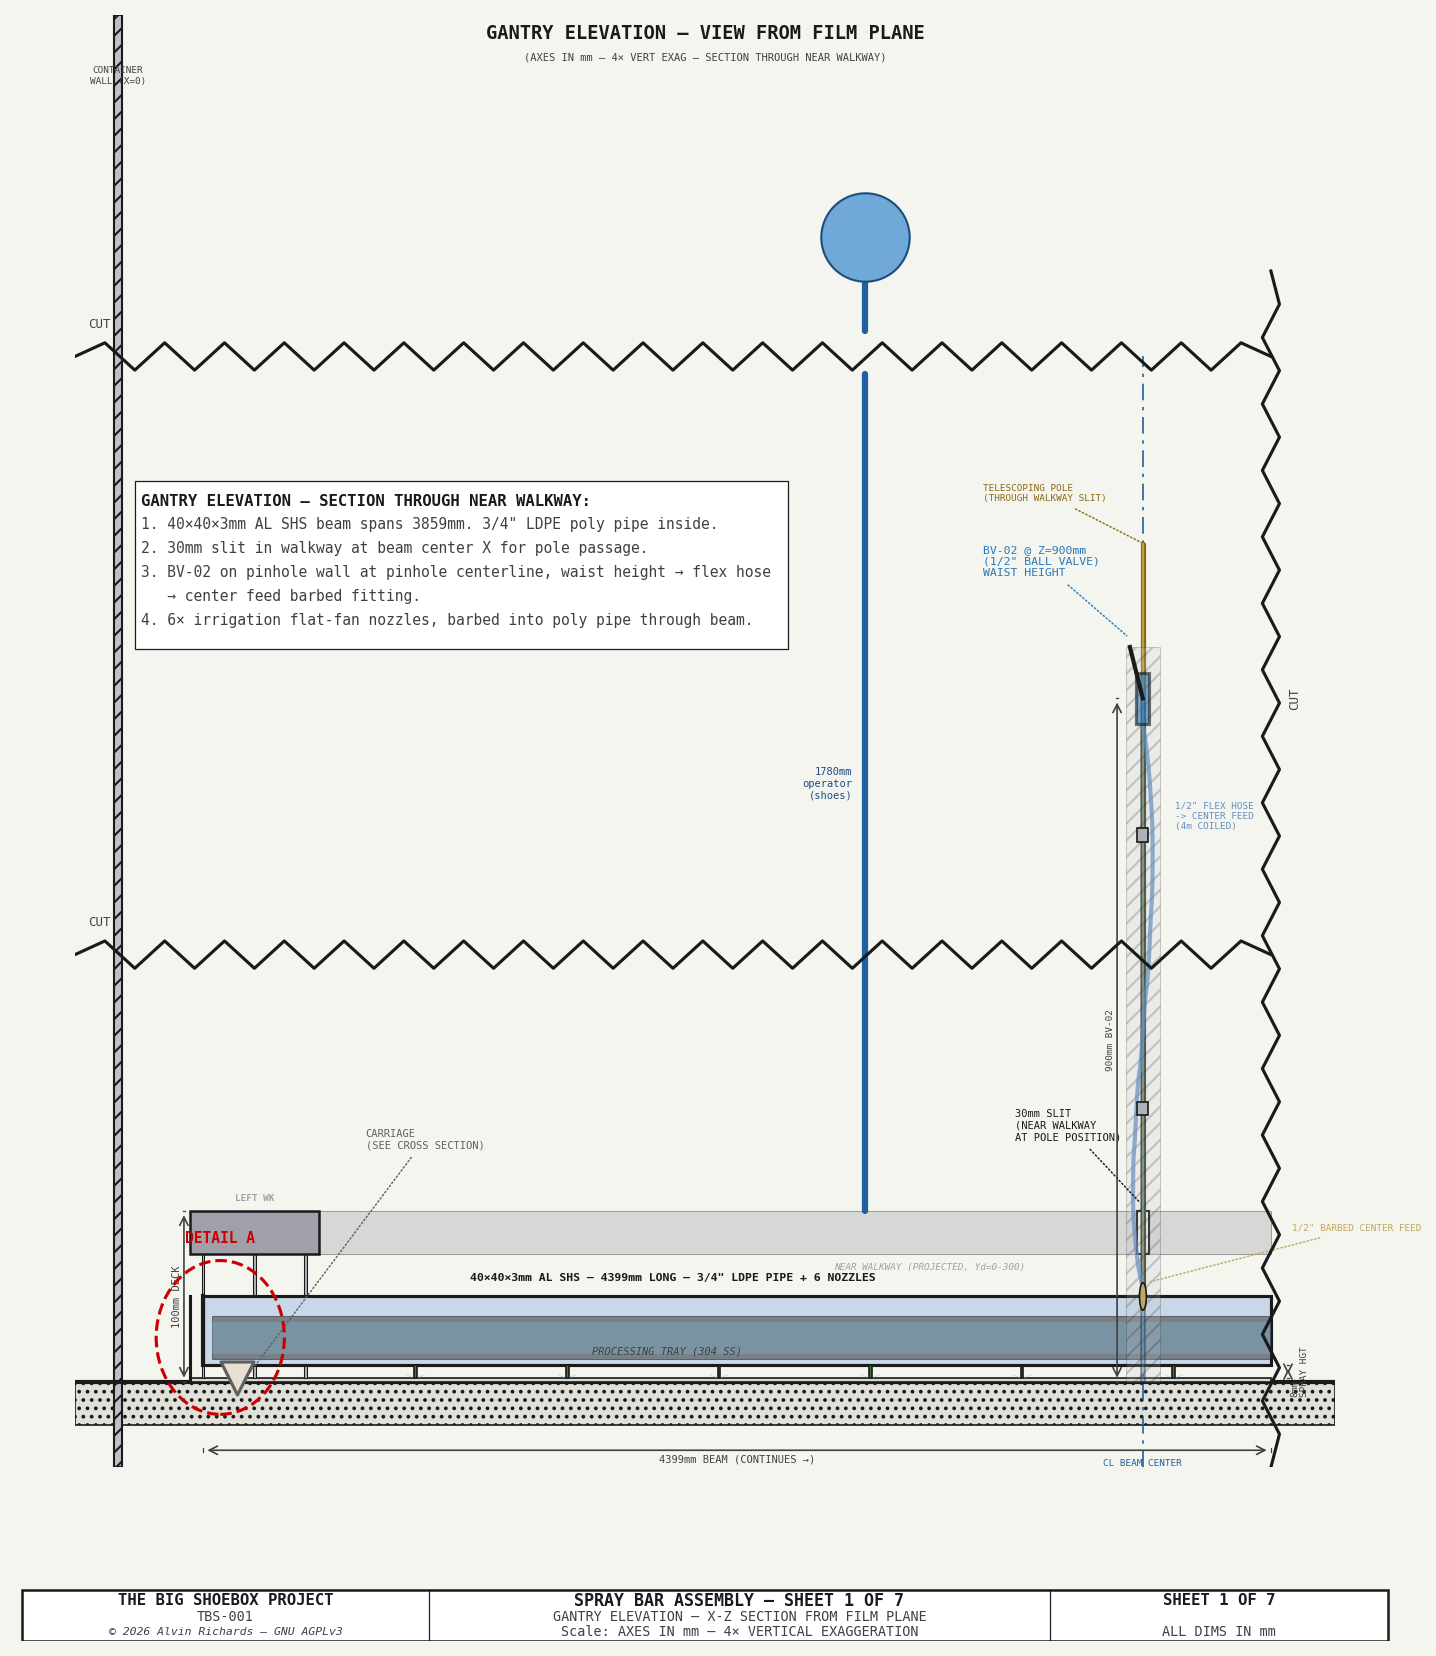
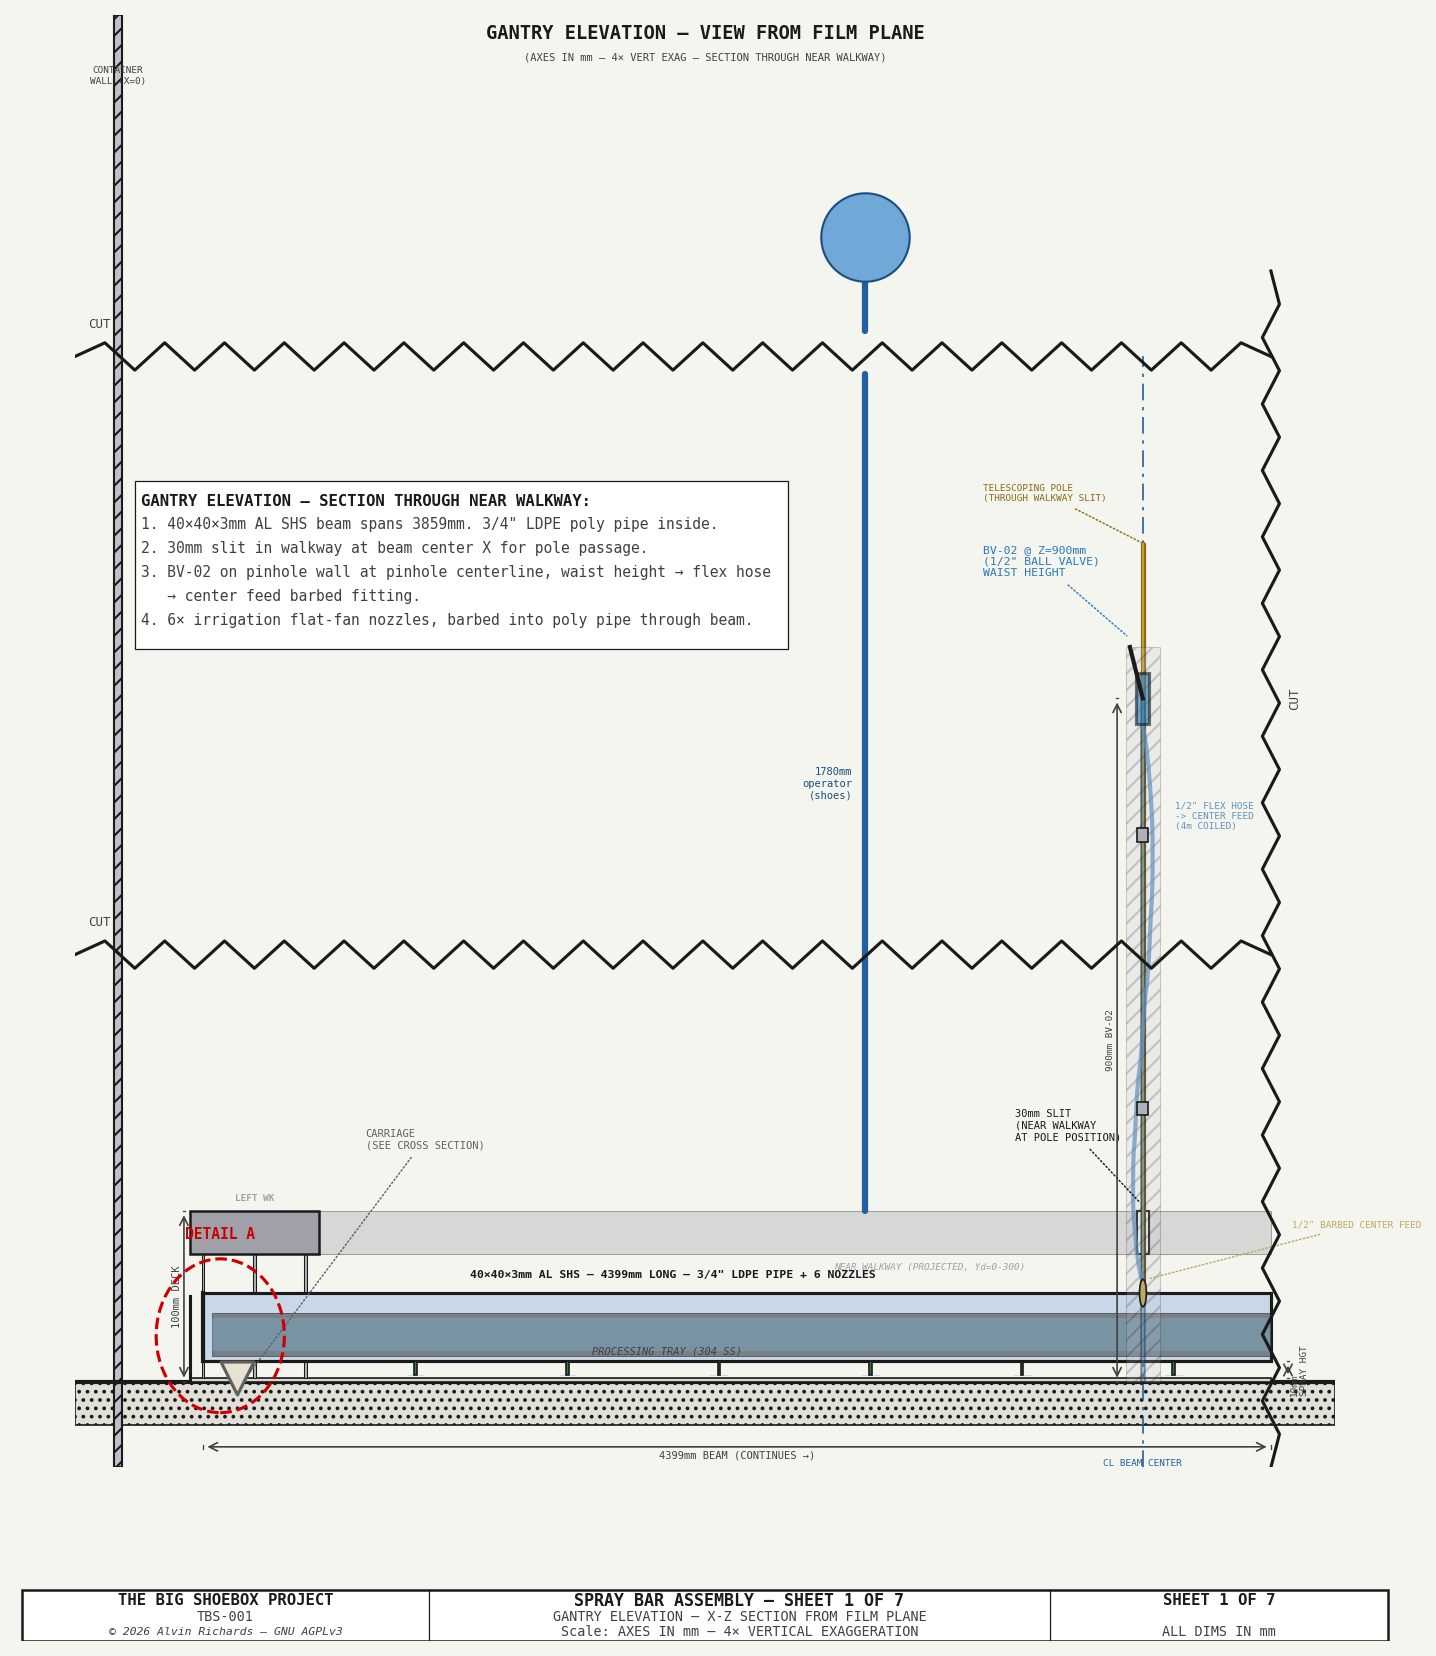
Sheet 2: fix carriage/beam connection — U-clamp under-slung with feet bolted through arm plate from above; arm plate repositioned above wheels; reduce nozzle body to realistic 10×6mm

Changed region(s): [[0.1226, 0.7391, 0.8886, 0.8315], [0.4596, 0.8623, 0.5822, 0.8931]]

diff --git a/generate_spray_bar_diagram.py b/generate_spray_bar_diagram.py
@@ -66,7 +66,7 @@ WHEEL_SPACING_YD = 200
 TRAY_FLOOR_Z = 2
 
 WHEEL_AXLE_Z = TRAY_FLOOR_Z + WHEEL_DIA / 2
-BRACKET_DROP = 17
+BRACKET_DROP = 15
 BEAM_Z_BOT = WHEEL_AXLE_Z - BRACKET_DROP
 BEAM_Z_TOP = BEAM_Z_BOT + SPRAY_BAR_BEAM
 BEAM_W = SPRAY_BAR_BEAM
@@ -79,8 +79,8 @@ POLY_ID = 19.0
 POLY_WALL = (POLY_OD - POLY_ID) / 2
 C_POLY = "#2A2A2A"
 N_NOZZLES = 6
-NOZZLE_BODY_W = 15
-NOZZLE_BODY_H = 12
+NOZZLE_BODY_W = 10
+NOZZLE_BODY_H = 6
 C_NOZZLE = "#3B7A3B"
 
 # U-clamp dimensions
@@ -552,33 +552,35 @@ def draw_sheet2():
            f"Ø{WHEEL_DIA}mm\nNYLON WHEEL",
            fs=5, color=C_WHEEL, font=FONT, zorder=15)
 
-    # ── Fork brackets ────────────────────────────────────────────────────
+    # ── Fork brackets (extend upward from axle to arm plate) ───────────
+    wheel_top_z = TRAY_FLOOR_Z + WHEEL_DIA
+    arm_gap = 3
+    brk_t_c = 5
+    arm_bot_z = wheel_top_z + arm_gap             # 55
+    arm_top_z = arm_bot_z + brk_t_c               # 60
+
     for w_yd in [wheel1_yd, wheel2_yd]:
         for offset in [-WHEEL_WIDTH / 2 - 2, WHEEL_WIDTH / 2 + 2]:
             ax2.plot([w_yd + offset, w_yd + offset],
-                     [WHEEL_AXLE_Z + 6, WHEEL_AXLE_Z - WHEEL_DIA / 2 + 4],
+                     [WHEEL_AXLE_Z, arm_bot_z],
                      color=C_FRAME, lw=1.2, zorder=5.5)
         ax2.plot([w_yd - WHEEL_WIDTH / 2 - 4, w_yd + WHEEL_WIDTH / 2 + 4],
                  [WHEEL_AXLE_Z, WHEEL_AXLE_Z],
                  color=C_FRAME, lw=0.8, zorder=6.5)
 
-    # ── L-bracket arm ────────────────────────────────────────────────────
-    brk_t_c = 5
+    # ── L-bracket arm plate (above wheels) ──────────────────────────────
     plate_yd_l = wheel1_yd - 18
     plate_yd_r = wheel2_yd + 18
 
-    ax2.add_patch(Rectangle((plate_yd_l, WHEEL_AXLE_Z - brk_t_c / 2),
+    ax2.add_patch(Rectangle((plate_yd_l, arm_bot_z),
                   plate_yd_r - plate_yd_l, brk_t_c,
                   fc=C_ALUM_FILL, ec=C_FRAME, lw=1.5, zorder=7))
-    leader(ax2, plate_yd_r, WHEEL_AXLE_Z,
-           plate_yd_r + 35, WHEEL_AXLE_Z + 8,
+    leader(ax2, plate_yd_r, arm_bot_z + brk_t_c / 2,
+           plate_yd_r + 35, arm_bot_z + 12,
            "AL L-BRACKET\nARM (5mm PLATE)",
            fs=5, color=C_FRAME, font=FONT, zorder=15)
 
     # ── Fork-to-arm M5 through-bolts ────────────────────────────────────
-    arm_top_z = WHEEL_AXLE_Z + brk_t_c / 2
-    arm_bot_z = WHEEL_AXLE_Z - brk_t_c / 2
-
     for w_yd in [wheel1_yd, wheel2_yd]:
         for offset in [-WHEEL_WIDTH / 2 - 2, WHEEL_WIDTH / 2 + 2]:
             fork_yd = w_yd + offset
@@ -589,8 +591,8 @@ def draw_sheet2():
             ax2.add_patch(Rectangle((fork_yd - 4, arm_bot_z - 4), 8, 4,
                          fc=C_BOLT, ec=C_FRAME, lw=0.6, zorder=11))
 
-    leader(ax2, wheel2_yd + WHEEL_WIDTH / 2 + 2, WHEEL_AXLE_Z,
-           wheel2_yd + 50, WHEEL_AXLE_Z - 10,
+    leader(ax2, wheel2_yd + WHEEL_WIDTH / 2 + 2, arm_bot_z,
+           wheel2_yd + 50, arm_bot_z - 20,
            "M5 SS THRU-BOLT\n+ NYLOC NUT\n(1 PER FORK)",
            fs=4.5, color=C_BOLT, font=FONT, zorder=15)
 
@@ -615,40 +617,47 @@ def draw_sheet2():
                   FITTING_DIA, POLY_WALL,
                   fc=C_NOZZLE, ec=C_FRAME, lw=0.5, zorder=9.1))
 
-    ax2.text(CARRIAGE_YD_CENTER, BEAM_Z_TOP + 4,
+    ax2.text(CARRIAGE_YD_CENTER, arm_top_z + 4,
              "40×40×3mm AL SHS\n+ 3/4\" LDPE PIPE", ha="center", va="bottom",
              fontsize=5.5, color=C_FRAME, fontweight="bold", **FONT, zorder=15)
 
-    # ── U-clamp over beam ────────────────────────────────────────────────
+    # ── U-clamp under beam (inverted — feet at arm underside) ──────────
     uc_l = CARRIAGE_YD_CENTER - BEAM_W / 2 - UC_T - UC_GAP
     uc_r = CARRIAGE_YD_CENTER + BEAM_W / 2 + UC_GAP + UC_T
     flare_l = uc_l - UC_FLARE
     flare_r = uc_r + UC_FLARE
 
-    ax2.add_patch(Rectangle((uc_l, BEAM_Z_TOP), uc_r - uc_l, UC_T,
+    # Bottom bar (wraps under beam)
+    ax2.add_patch(Rectangle((uc_l, BEAM_Z_BOT - UC_T), uc_r - uc_l, UC_T,
                   fc=C_UCLAMP, ec=C_FRAME, lw=1.0, zorder=10))
+    # Side legs (run up alongside beam)
     for u_yd in [uc_l, uc_r - UC_T]:
-        ax2.add_patch(Rectangle((u_yd, BEAM_Z_BOT + UC_T), UC_T,
-                     BEAM_Z_TOP - BEAM_Z_BOT - UC_T,
+        ax2.add_patch(Rectangle((u_yd, BEAM_Z_BOT), UC_T,
+                     BEAM_Z_TOP - BEAM_Z_BOT,
                      fc=C_UCLAMP, ec=C_FRAME, lw=0.8, zorder=10))
-    ax2.add_patch(Rectangle((flare_l, BEAM_Z_BOT),
+    # Flared feet at top (pressed against arm underside)
+    ax2.add_patch(Rectangle((flare_l, BEAM_Z_TOP),
                   uc_l + UC_T - flare_l, UC_T,
                   fc=C_UCLAMP, ec=C_FRAME, lw=0.8, zorder=10))
-    ax2.add_patch(Rectangle((uc_r - UC_T, BEAM_Z_BOT),
+    ax2.add_patch(Rectangle((uc_r - UC_T, BEAM_Z_TOP),
                   flare_r - uc_r + UC_T, UC_T,
                   fc=C_UCLAMP, ec=C_FRAME, lw=0.8, zorder=10))
 
+    # Bolts from arm top, through arm and U-clamp feet
     for bolt_yd in [flare_l + UC_FLARE / 2, flare_r - UC_FLARE / 2]:
-        ax2.add_patch(Rectangle((bolt_yd - 2.5, arm_bot_z - 4), 5,
-                     BEAM_Z_BOT + UC_T - arm_bot_z + 4,
+        # Bolt shaft through arm + U-foot
+        ax2.add_patch(Rectangle((bolt_yd - 2.5, BEAM_Z_TOP), 5,
+                     arm_top_z - BEAM_Z_TOP,
                      fc=C_BOLT, ec=C_FRAME, lw=0.5, zorder=11))
-        ax2.add_patch(Rectangle((bolt_yd - 4, BEAM_Z_BOT + UC_T), 8, 3,
+        # Bolt head on arm top
+        ax2.add_patch(Rectangle((bolt_yd - 4, arm_top_z), 8, 3,
                      fc=C_BOLT, ec=C_FRAME, lw=0.6, zorder=11))
-        ax2.add_patch(Rectangle((bolt_yd - 5, arm_bot_z - 8), 10, 4,
+        # Wing nut under U-foot
+        ax2.add_patch(Rectangle((bolt_yd - 5, BEAM_Z_TOP - 4), 10, 4,
                      fc=C_BOLT, ec=C_FRAME, lw=0.6, zorder=11))
 
-    leader(ax2, flare_r, BEAM_Z_BOT + UC_T / 2,
-           flare_r + 20, BEAM_Z_BOT - 5,
+    leader(ax2, flare_r, BEAM_Z_TOP + UC_T / 2,
+           flare_r + 20, BEAM_Z_TOP + 15,
            "SS U-CLAMP\n+ WING NUTS",
            fs=4.5, color=C_BOLT, font=FONT, zorder=15)
 
@@ -691,7 +700,7 @@ def draw_sheet2():
     STUD_EXT = 20
     C_JOINT = "#C8B070"
 
-    beam_top_z_bj = BEAM_Z_TOP
+    beam_top_z_bj = arm_top_z
     flange_bot_z = beam_top_z_bj
     socket_bot_z = flange_bot_z + FLANGE_T
     ball_ctr_z = socket_bot_z + SOCKET_H / 2 + 2
@@ -717,14 +726,14 @@ def draw_sheet2():
              color=C_BOLT, lw=2.5, zorder=9, solid_capstyle="round")
 
     ax2.plot([ubolt_l + ubolt_t / 2, ubolt_l + ubolt_t / 2],
-             [ub_arc_cz, beam_top_z_bj - BEAM_T - 5],
+             [ub_arc_cz, beam_top_z_bj - brk_t_c - 3],
              color=C_BOLT, lw=2.5, zorder=9)
     ax2.plot([ubolt_r - ubolt_t / 2, ubolt_r - ubolt_t / 2],
-             [ub_arc_cz, beam_top_z_bj - BEAM_T - 5],
+             [ub_arc_cz, beam_top_z_bj - brk_t_c - 3],
              color=C_BOLT, lw=2.5, zorder=9)
 
     for nut_yd in [ubolt_l + ubolt_t / 2, ubolt_r - ubolt_t / 2]:
-        ax2.add_patch(Rectangle((nut_yd - 5, beam_top_z_bj - BEAM_T - 8), 10, 4,
+        ax2.add_patch(Rectangle((nut_yd - 5, beam_top_z_bj - brk_t_c - 6), 10, 4,
                      fc=C_BOLT, ec=C_FRAME, lw=0.6, zorder=10))
 
     # Socket housing

diff --git a/processing-tray-and-spray-bar.md b/processing-tray-and-spray-bar.md
@@ -151,7 +151,7 @@ irrigation nozzles spaced evenly along the beam bottom face.
 | Wheel fork brackets | 6061-T6 AL plate 6mm, U-fork profile | 4 | Mount wheels on axle pins |
 | Axle pins | 10mm SS clevis pin + snap rings | 4 | Wheel spindles (snap ring retention both ends) |
 | L-brackets | 6061-T6 AL plate 5mm, horizontal arm | 2 | Connect carriages to beam via U-clamp |
-| U-clamps | SS, flared legs, wing nuts — wraps 40mm SHS | 2 | Attach beam to L-bracket, tool-free adjustment |
+| U-clamps | SS, under-slung, flared feet + wing nuts — cradles 40mm SHS from below | 2 | Attach beam to L-bracket arm, tool-free adjustment |
 | Ball joint | Ø20mm SS ball, zinc socket, M12 stud, 50mm flange | 1 | Multi-axis arm articulation on beam top face |
 | M8 U-bolt | SS, wraps over ball joint socket, nyloc nuts | 1 | Clamps ball joint to beam |
 | Arm tube | 6061-T6 AL round tube, 25mm OD × 2mm wall, ~500mm | 1 | Vertical arm from ball joint to pole |
@@ -234,11 +234,14 @@ wheels spaced 200mm apart in the Yd direction for stability against tipping.
 |-----------------|------------|
 | Container floor | 0 |
 | Tray floor (SS sheet on floor) | ~2 |
-| Beam bottom (with 17mm bracket drop) | 10 |
+| Nozzle bottom (6mm body) | 6 |
+| Beam bottom (under-slung) | 12 |
 | Wheel axle centerline | 27 |
-| Beam top | 50 |
 | Tray rim top | 50 |
+| Beam top | 52 |
 | Wheel top | 52 |
+| U-clamp feet / arm plate bottom | 55 |
+| Arm plate top | 60 |
 | Walkway grating bottom | 75 |
 | Walkway grating top (deck surface) | 100 |
 
@@ -246,13 +249,15 @@ wheels spaced 200mm apart in the Yd direction for stability against tipping.
 
 | Interface | Gap | Notes |
 |-----------|-----|-------|
-| Beam top → grating bottom | 25mm | Ample clearance; no contact during travel |
-| Beam bottom → tray floor | 8mm | Reduces to ~0.5mm at midspan under full water load (see §3.7) |
+| Arm plate top → grating bottom | 15mm | Ample clearance; no contact during travel |
+| Beam bottom → tray floor | 10mm | Reduces to ~0.5mm at midspan under full water load (see §3.7) |
+| Nozzle bottom → tray floor | 4mm | Nozzle body clears floor at all carriage positions |
 | Wheel top → grating bottom | 23mm | Wheels roll freely under grating |
 
 **Wheel fork brackets:** Each wheel is held by a U-shaped fork bracket fabricated from
 6mm 6061-T6 aluminum plate. The fork straddles the wheel with ~2mm side clearance,
-drilled for a 10mm clevis pin axle. The fork's base plate has two M6 through-holes for
+drilled for a 10mm clevis pin axle. The fork extends upward from the axle to the
+L-bracket arm plate (28mm leg height). The fork's top plate has two M6 through-holes for
 bolting to the L-bracket horizontal arm.
 
 ### 3.5 L-Bracket Design
@@ -342,16 +347,19 @@ positions the beam below the wheel axle centerline.
 
 #### 3.6.5 Beam Attachment
 
-The carriages attach to the beam ends using SS U-clamps with flared legs and wing
-nuts. This provides tool-free adjustment of the carriage position along the beam.
+The carriages attach to the beam using SS U-clamps in an under-slung configuration.
+The U-clamp wraps under the beam from below, with its flared feet pressed against the
+underside of the L-bracket arm plate. Bolts pass through the arm plate from above,
+through the U-clamp feet, and wing nuts thread on below. This provides tool-free
+adjustment of the carriage position along the beam.
 
 | Step | Operation |
 |------|-----------|
-| 1 | Slide one U-clamp over the beam SHS approximately 30mm from each end |
-| 2 | Position the L-bracket vertical leg against the beam side face, with the horizontal arm extending outward (toward the walkway). The vertical leg drops the beam 17mm below the wheel axle centerline |
-| 3 | Pass the U-clamp flared-leg bolts through the L-bracket horizontal arm |
-| 4 | Thread wing nuts onto each bolt and tighten by hand until the clamp grips the beam firmly |
-| 5 | Set the assembled spray bar on the processing tray floor. Confirm beam top (Z=50mm) clears walkway grating bottom (Z=75mm) — 25mm gap. Confirm all wheels roll freely on the tray floor |
+| 1 | Slide one U-clamp under the beam SHS approximately 30mm from each end |
+| 2 | Position the L-bracket arm plate above the beam, aligning the U-clamp flared feet against the arm plate underside |
+| 3 | Pass bolts through the arm plate from above, through the U-clamp feet |
+| 4 | Thread wing nuts onto each bolt below the feet and tighten by hand until the clamp grips the beam firmly |
+| 5 | Set the assembled spray bar on the processing tray floor. Confirm arm plate top (Z=60mm) clears walkway grating bottom (Z=75mm) — 15mm gap. Confirm all wheels roll freely on the tray floor |
 | 6 | Push the bar through its full 2200mm Yd travel to verify it tracks straight between the tray rim walls without binding |
 
 ### 3.7 Structural Analysis
